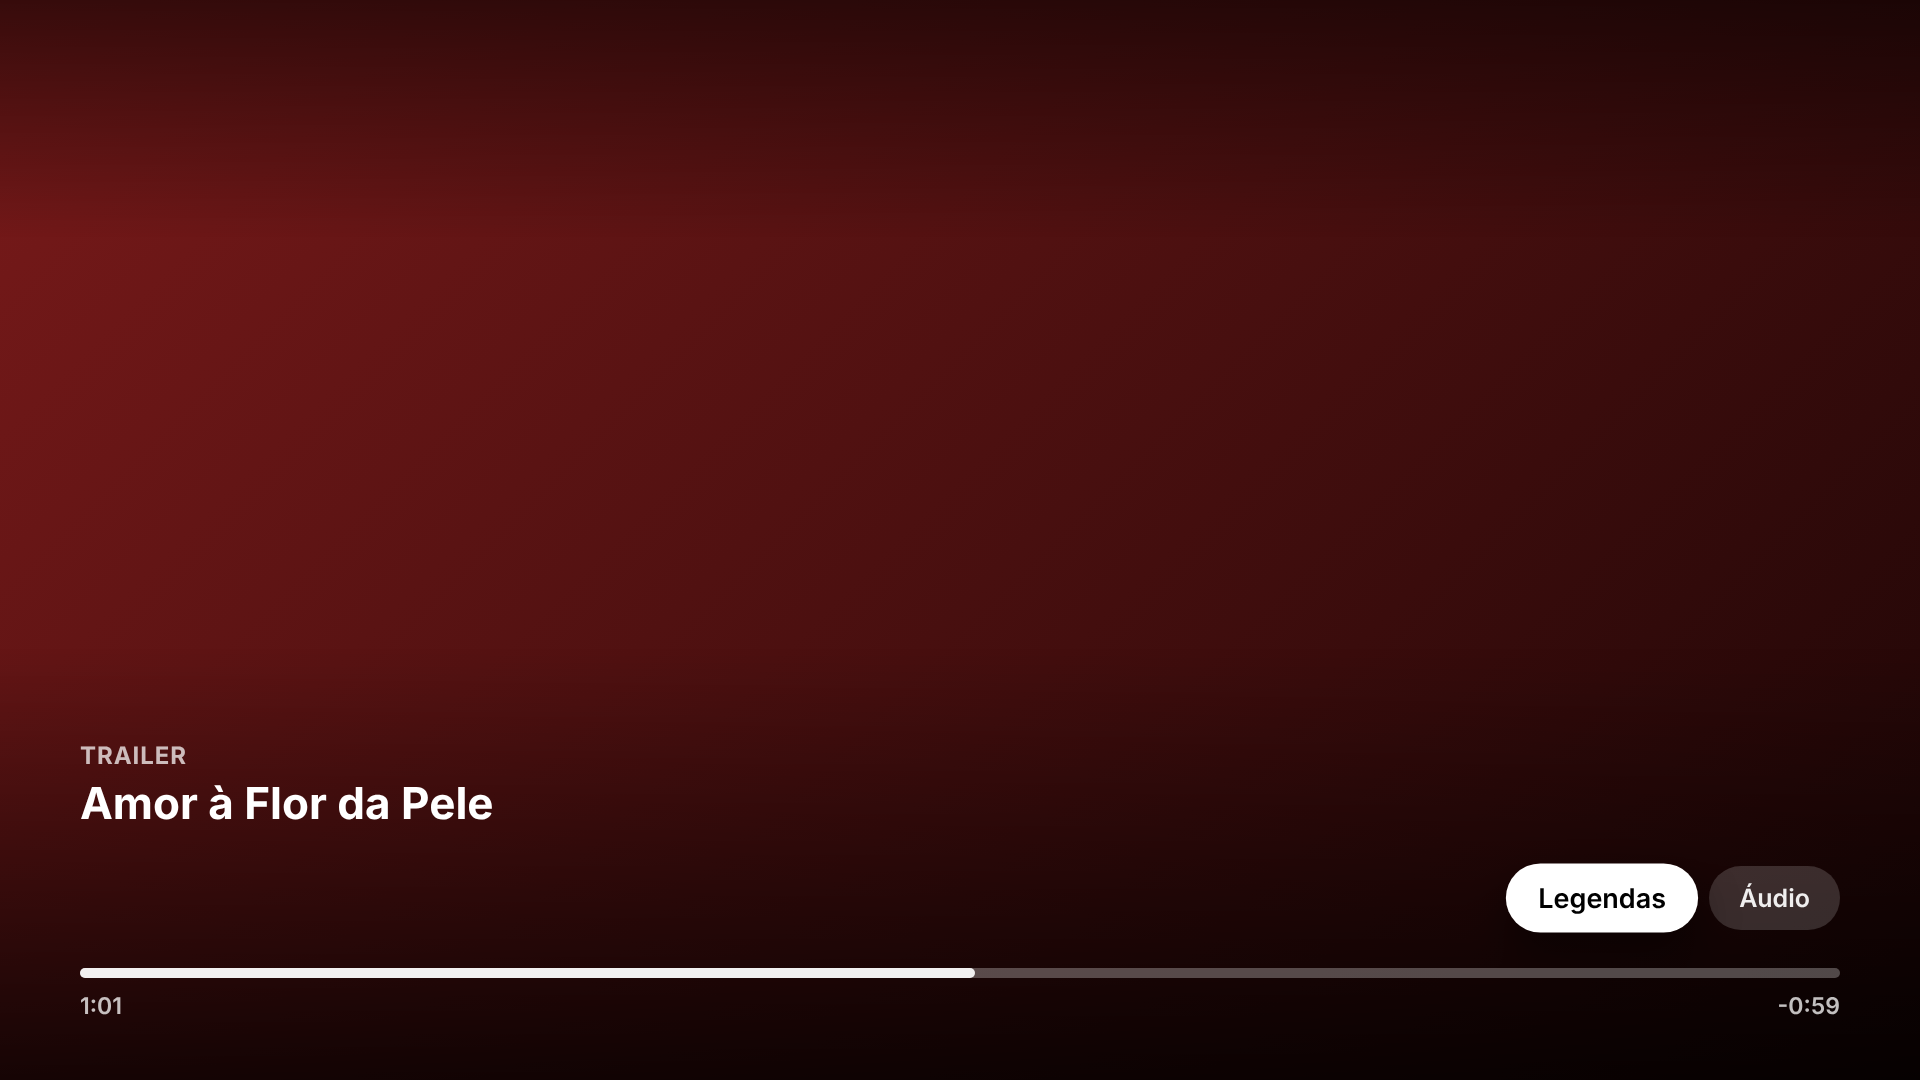
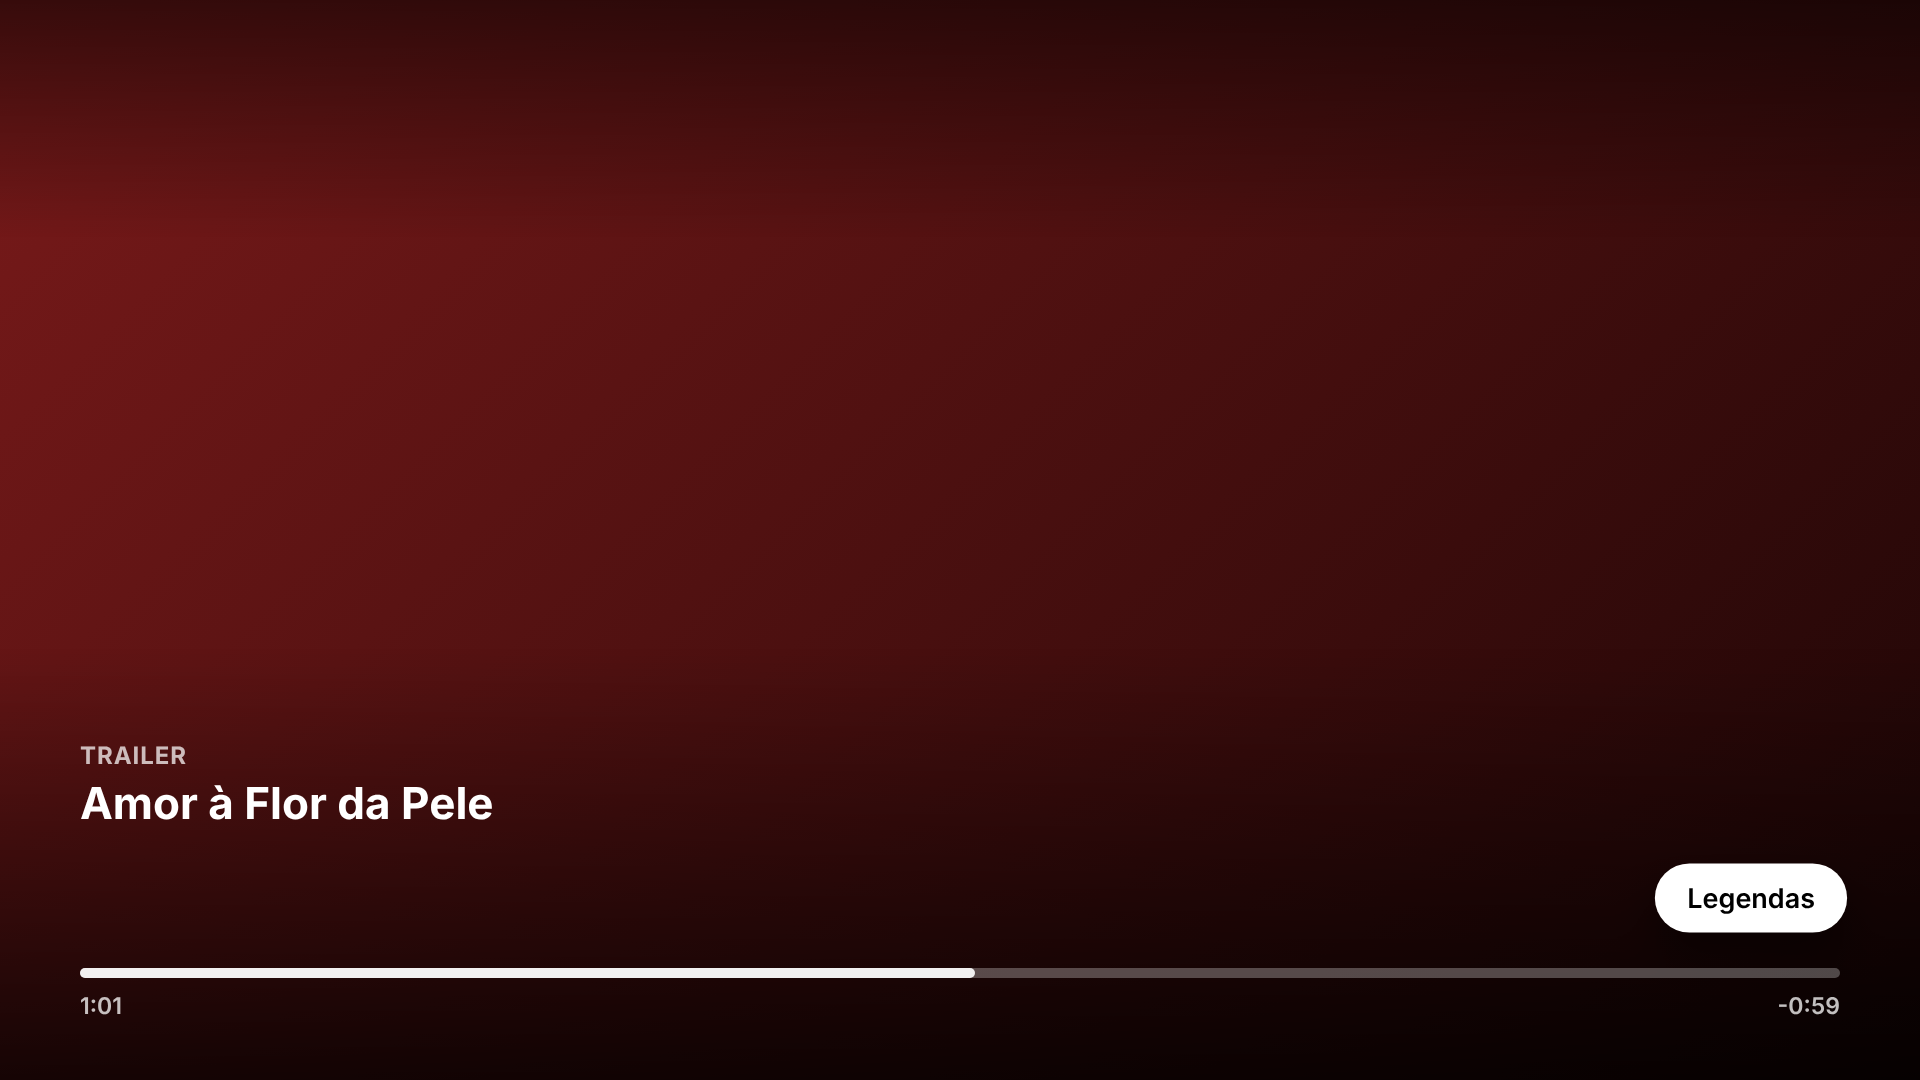
Trailer: legendas do YouTube desligadas, o botão Legendas do Sofá liga (pt/en); a imagem volta 0,9 s depois do play (sem o ícone do YouTube); loga a qualidade
Claude-Session: https://claude.ai/code/session_015CVyhHhqeSzaxL5VtG39vu

Changed region(s): [[0.7812, 0.7944, 0.9688, 0.8861]]

diff --git a/client/proto/proto.js b/client/proto/proto.js
@@ -969,7 +969,7 @@
     clearTimeout(P.spin); P.scrub = null; P.seek = null; P.moved = null;
     P.trailer = true;
     P.id = id; P.t = t; P.s = 0; P.e = 0; P.dur = 150; P.pos = 0; P.savedAt = 0; P.segs = null;
-    P.paused = false; P.started = false; P.zone = 'bar'; P.pill = 0; P.tabs = false; P.nextCount = 0;
+    P.paused = false; P.started = false; P.zone = 'bar'; P.pill = 0; P.tabs = false; P.nextCount = 0; P.ytcc = '';
     show('player');
     $('#player .frame').className = 'frame';
     $('#player .skip').className = 'skip';
@@ -1007,13 +1007,13 @@
       try { o = JSON.parse(e.data); } catch (x) {}
       if (!o || !o.sofaYt) return;
       if (o.type === 'ready') { ready = true; at.dur = o.dur; emit({type: 'ready', dur: o.dur * 1000}); }
-      else if (o.type === 'time') { at.pos = o.pos; if (o.dur) at.dur = o.dur; }
+      else if (o.type === 'time') { at.pos = o.pos; if (o.dur) at.dur = o.dur; if (o.q && o.q !== at.q) { at.q = o.q; console.log('[trailer] qualidade ' + o.q); } }
       else if (o.type === 'error') fail(o.code);
       else if (o.type === 'state') {
         // YouTube draws its own play / pause icon for a moment: the picture shows only once it plays, and a pause shows
         // the title's art under the OSD, as the film does.
         clearTimeout(reveal);
-        if (o.data === 1) reveal = setTimeout(function () { box.className = 'yt on'; }, 400);
+        if (o.data === 1) reveal = setTimeout(function () { box.className = 'yt on'; }, 900);
         else if (o.data !== 3) box.className = 'yt';
         if (o.data === 1 && !started) { started = true; console.log('[trailer] tocando ' + key); emit({type: 'firstFrame', ms: 0}); }
         else if (o.data === 3) emit({type: 'buffering'});
@@ -1027,6 +1027,7 @@
       open: function () {}, preload: function () {}, warm: function () {}, select: function () {},
       play: function () { cmd({cmd: 'play'}); },
       pause: function () { clearTimeout(reveal); box.className = 'yt'; cmd({cmd: 'pause'}); },
+      captions: function (lang) { cmd({cmd: 'cc', lang: lang}); },
       seekTo: function (ms) { at.pos = ms / 1000; cmd({cmd: 'seek', t: ms / 1000}); },
       state: function () { return JSON.stringify(ready ? {pos: at.pos * 1000, dur: at.dur * 1000} : {}); },
       stop: function () {
@@ -2106,9 +2107,20 @@
   }
 
   // A show with more to come gets a fourth button: on to the next episode.
+  // A trailer's subtitles are YouTube's own: off unless picked here.
+  function trailerSubs() {
+    var langs = [['', 'Desligadas'], ['pt', 'Português'], ['en', 'Inglês']], items = [];
+    for (var i = 0; i < langs.length; i++)
+      items.push({a: langs[i][1], chk: (P.ytcc || '') === langs[i][0], act: (function (l) { return function () {
+        P.ytcc = l[0]; closeSheet();
+        if (window.Player && window.Player.captions) window.Player.captions(l[0]);
+        toast(l[0] ? 'Legendas: ' + l[1] : 'Legendas desligadas');
+      }; })(langs[i])});
+    return items;
+  }
   function pillNames() {
     var n = ['Legendas', 'Áudio', 'Fontes'];
-    if (P.trailer) return ['Legendas', 'Áudio'];
+    if (P.trailer) return ['Legendas'];
     if (P.s && P.t && P.t.seasons && hasNext()) n.push('Próximo episódio  ▶▶');
     return n;
   }
@@ -2207,7 +2219,7 @@
       else if (k === 'right' && P.pill < pillNames().length - 1) P.pill++;
       else if (k === 'down') P.zone = 'bar';
       else if (k === 'ok') {
-        if (P.pill === 0) openSheet('Legendas', subsItems());
+        if (P.pill === 0) openSheet('Legendas', P.trailer ? trailerSubs() : subsItems());
         else if (P.pill === 1) openSheet('Áudio', audioItems());
         else if (P.pill === 3) { P.zone = 'bar'; P.pill = 0; osd(false); nextEpisode(); return; }
         else openPlayerSources();

diff --git a/client/proto/yt.html b/client/proto/yt.html
@@ -14,21 +14,23 @@
 // so the app frames this page, served over https, and drives YouTube's player through it with postMessage.
 // ?v=VIDEO_ID. In: {cmd: 'play' | 'pause' | 'seek', t}. Out: {sofaYt: true, type: 'ready' | 'state' | 'time' | 'error', ...}.
 (function () {
-  var m = /[?&]v=([\w-]{6,20})/.exec(location.search), key = m && m[1], yt = null, playing = false, muted = false, held = false, last = -1, still = 0, nudges = 0;
+  var m = /[?&]v=([\w-]{6,20})/.exec(location.search), key = m && m[1], yt = null, playing = false, muted = false, held = false, last = -1, still = 0, nudges = 0, cc = '';
   function send(o) { o.sofaYt = true; try { parent.postMessage(JSON.stringify(o), '*'); } catch (e) {} }
   if (!key) { send({type: 'error', code: 'NO_ID'}); return; }
   window.onYouTubeIframeAPIReady = function () {
     yt = new YT.Player('v', {videoId: key, width: '100%', height: '100%', host: 'https://www.youtube-nocookie.com',
-      playerVars: {autoplay: 1, controls: 0, disablekb: 1, fs: 0, rel: 0, iv_load_policy: 3, playsinline: 1, hl: 'pt', vq: 'hd1080', origin: location.origin},
+      playerVars: {autoplay: 1, controls: 0, disablekb: 1, fs: 0, rel: 0, iv_load_policy: 3, playsinline: 1, hl: 'pt', vq: 'hd1080', cc_load_policy: 0, origin: location.origin},
       events: {
         onReady: function () {
           send({type: 'ready', dur: yt.getDuration()});
+          try { yt.unloadModule('captions'); yt.setPlaybackQuality('hd1080'); } catch (e) {}
           yt.playVideo();
           // A browser that holds autoplay with sound: start it muted, then try the sound back once it plays.
           setTimeout(function () { if (!playing) { muted = true; yt.mute(); yt.playVideo(); } }, 3000);
         },
         onStateChange: function (e) {
           if (e.data === 1) {
+            if (!cc) try { yt.unloadModule('captions'); } catch (x) {}   // YouTube turns them on by itself
             playing = true;
             if (muted) { muted = false; yt.unMute(); setTimeout(function () { if (yt.getPlayerState() !== 1) { yt.mute(); yt.playVideo(); } }, 600); }
           }
@@ -37,7 +39,7 @@
         onError: function (e) { send({type: 'error', code: e.data}); }
       }});
     setInterval(function () {
-      try { send({type: 'time', pos: yt.getCurrentTime(), dur: yt.getDuration()}); } catch (e) {}
+      try { send({type: 'time', pos: yt.getCurrentTime(), dur: yt.getDuration(), q: yt.getPlaybackQuality()}); } catch (e) {}
     }, 250);
     // Stuck at the start, or paused by itself (not by the remote): press play again; after two tries, without sound.
     setInterval(function () {
@@ -62,6 +64,11 @@
       if (o.cmd === 'play') { held = false; yt.playVideo(); }
       else if (o.cmd === 'pause') { held = true; yt.pauseVideo(); }
       else if (o.cmd === 'seek') yt.seekTo(o.t, true);
+      else if (o.cmd === 'cc') {
+        cc = o.lang || '';
+        if (!o.lang) yt.unloadModule('captions');
+        else { yt.loadModule('captions'); yt.setOption('captions', 'track', {languageCode: o.lang}); }
+      }
     } catch (x) {}
   });
   var js = document.createElement('script');
